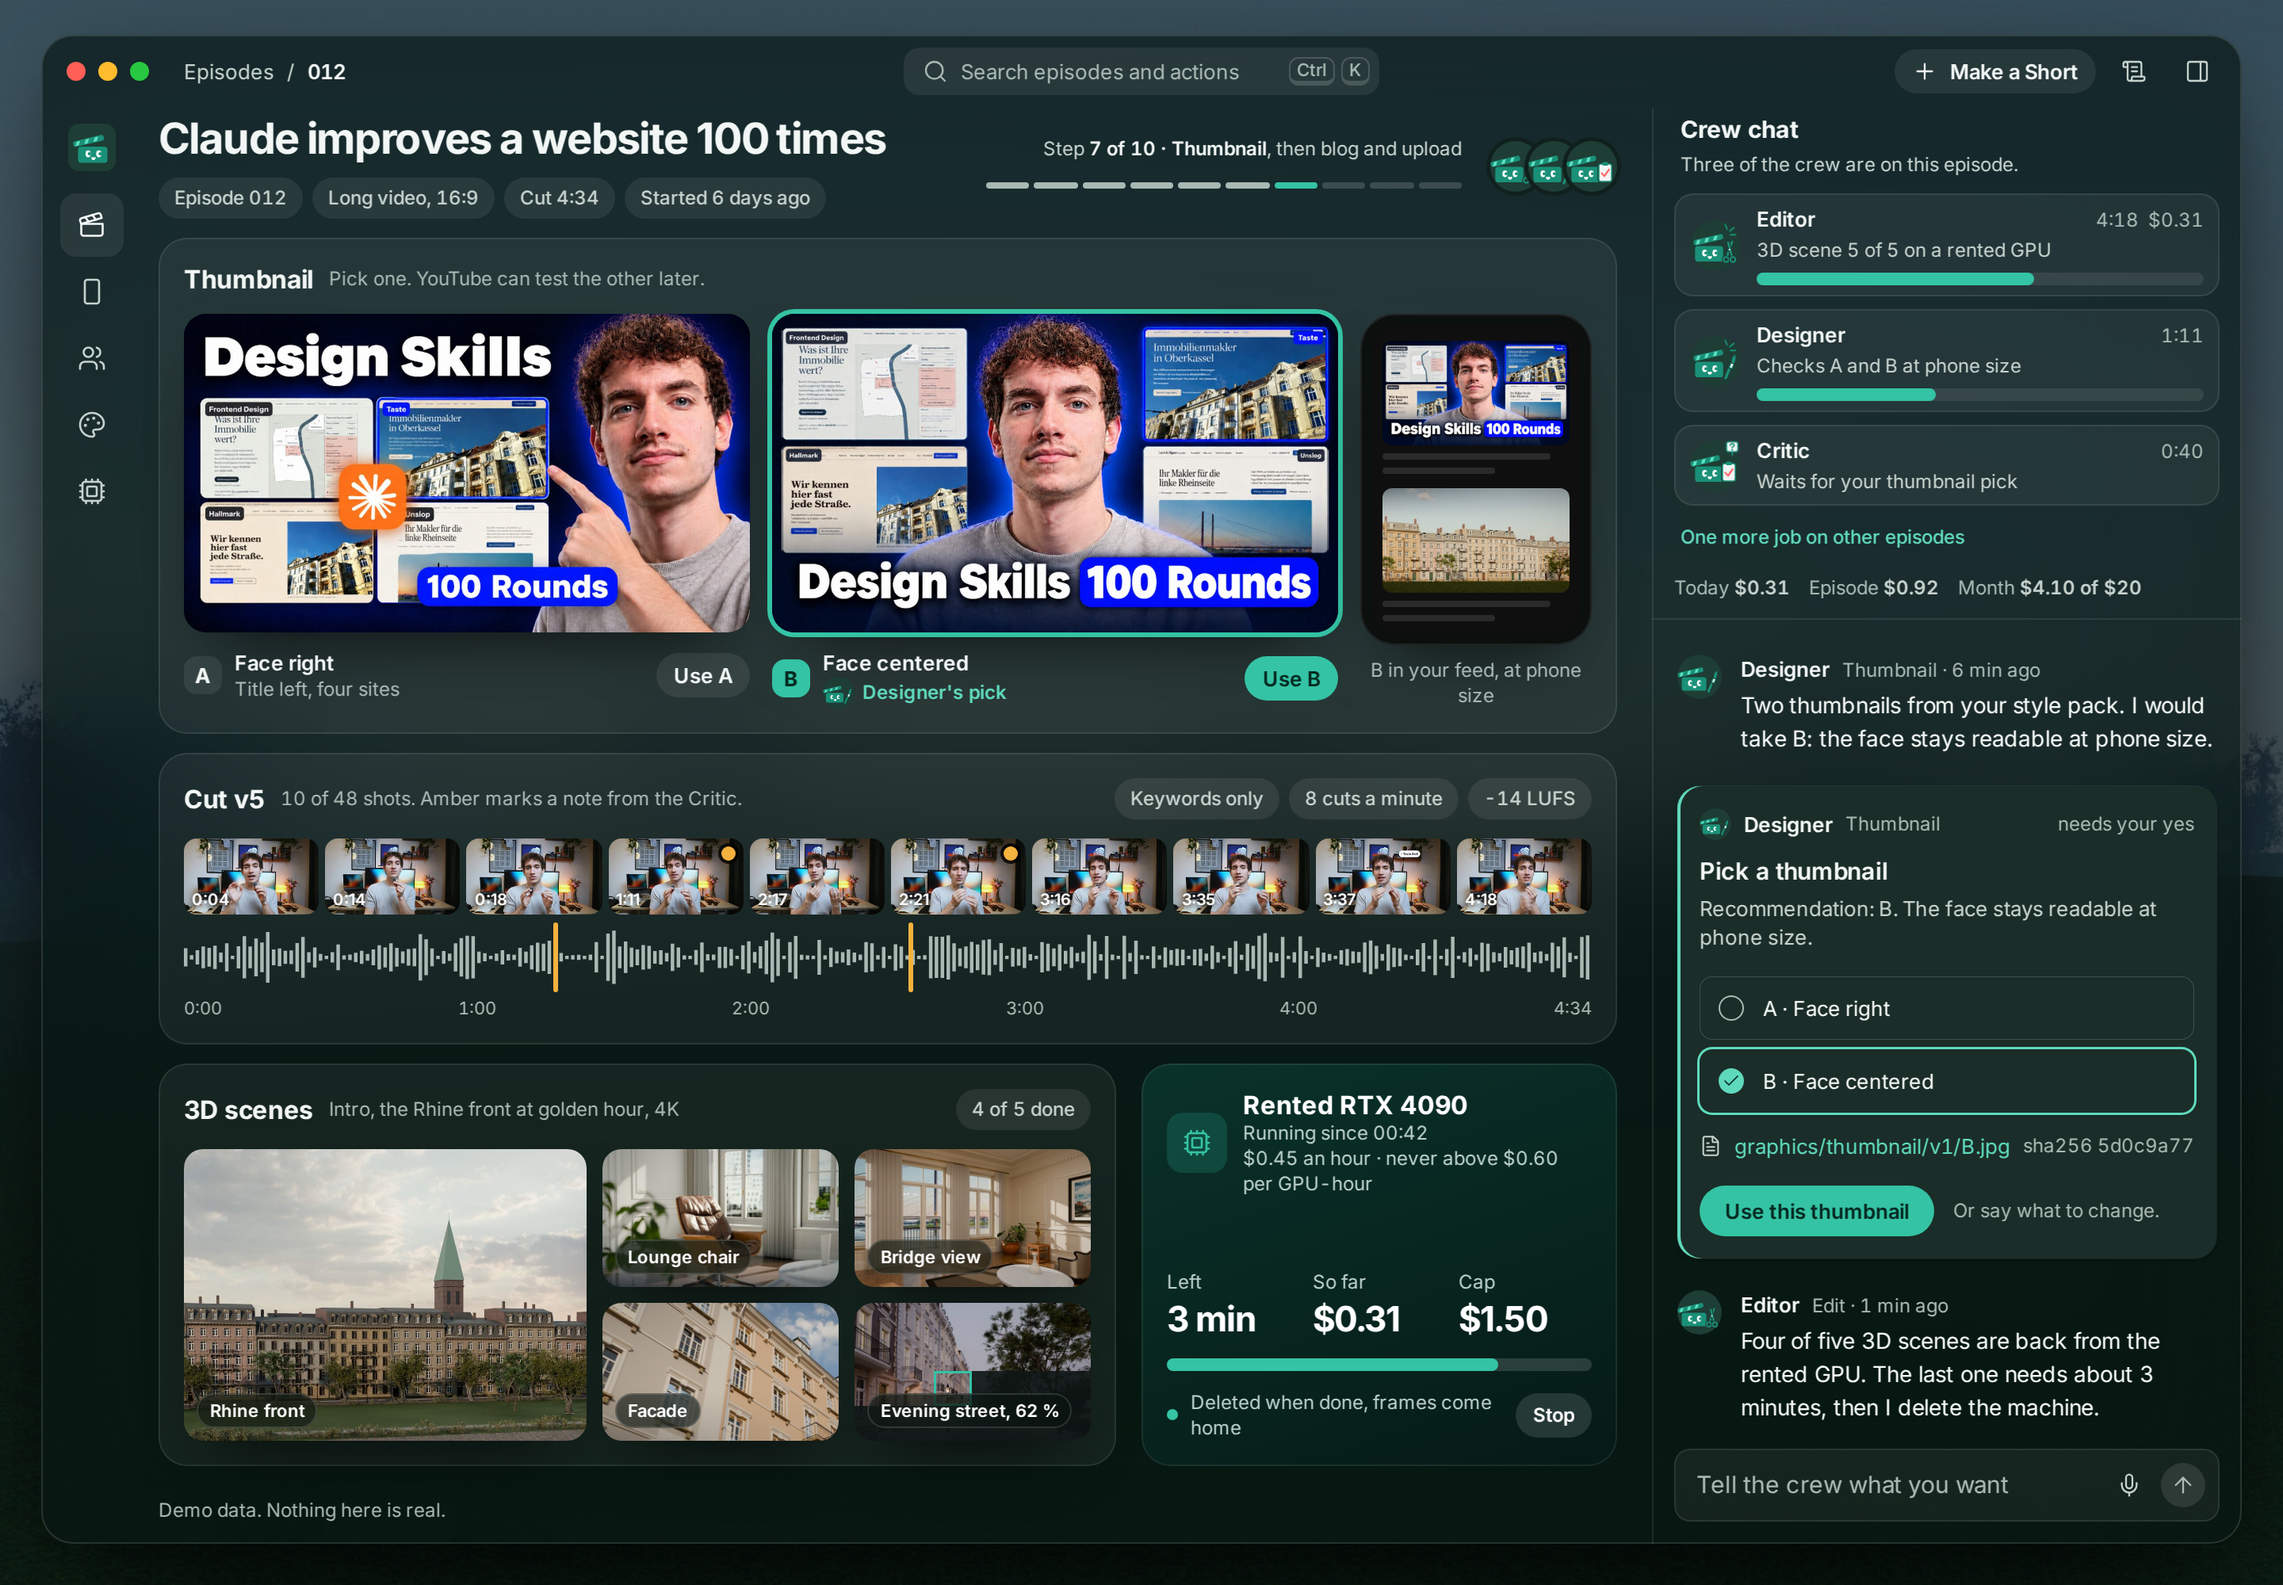
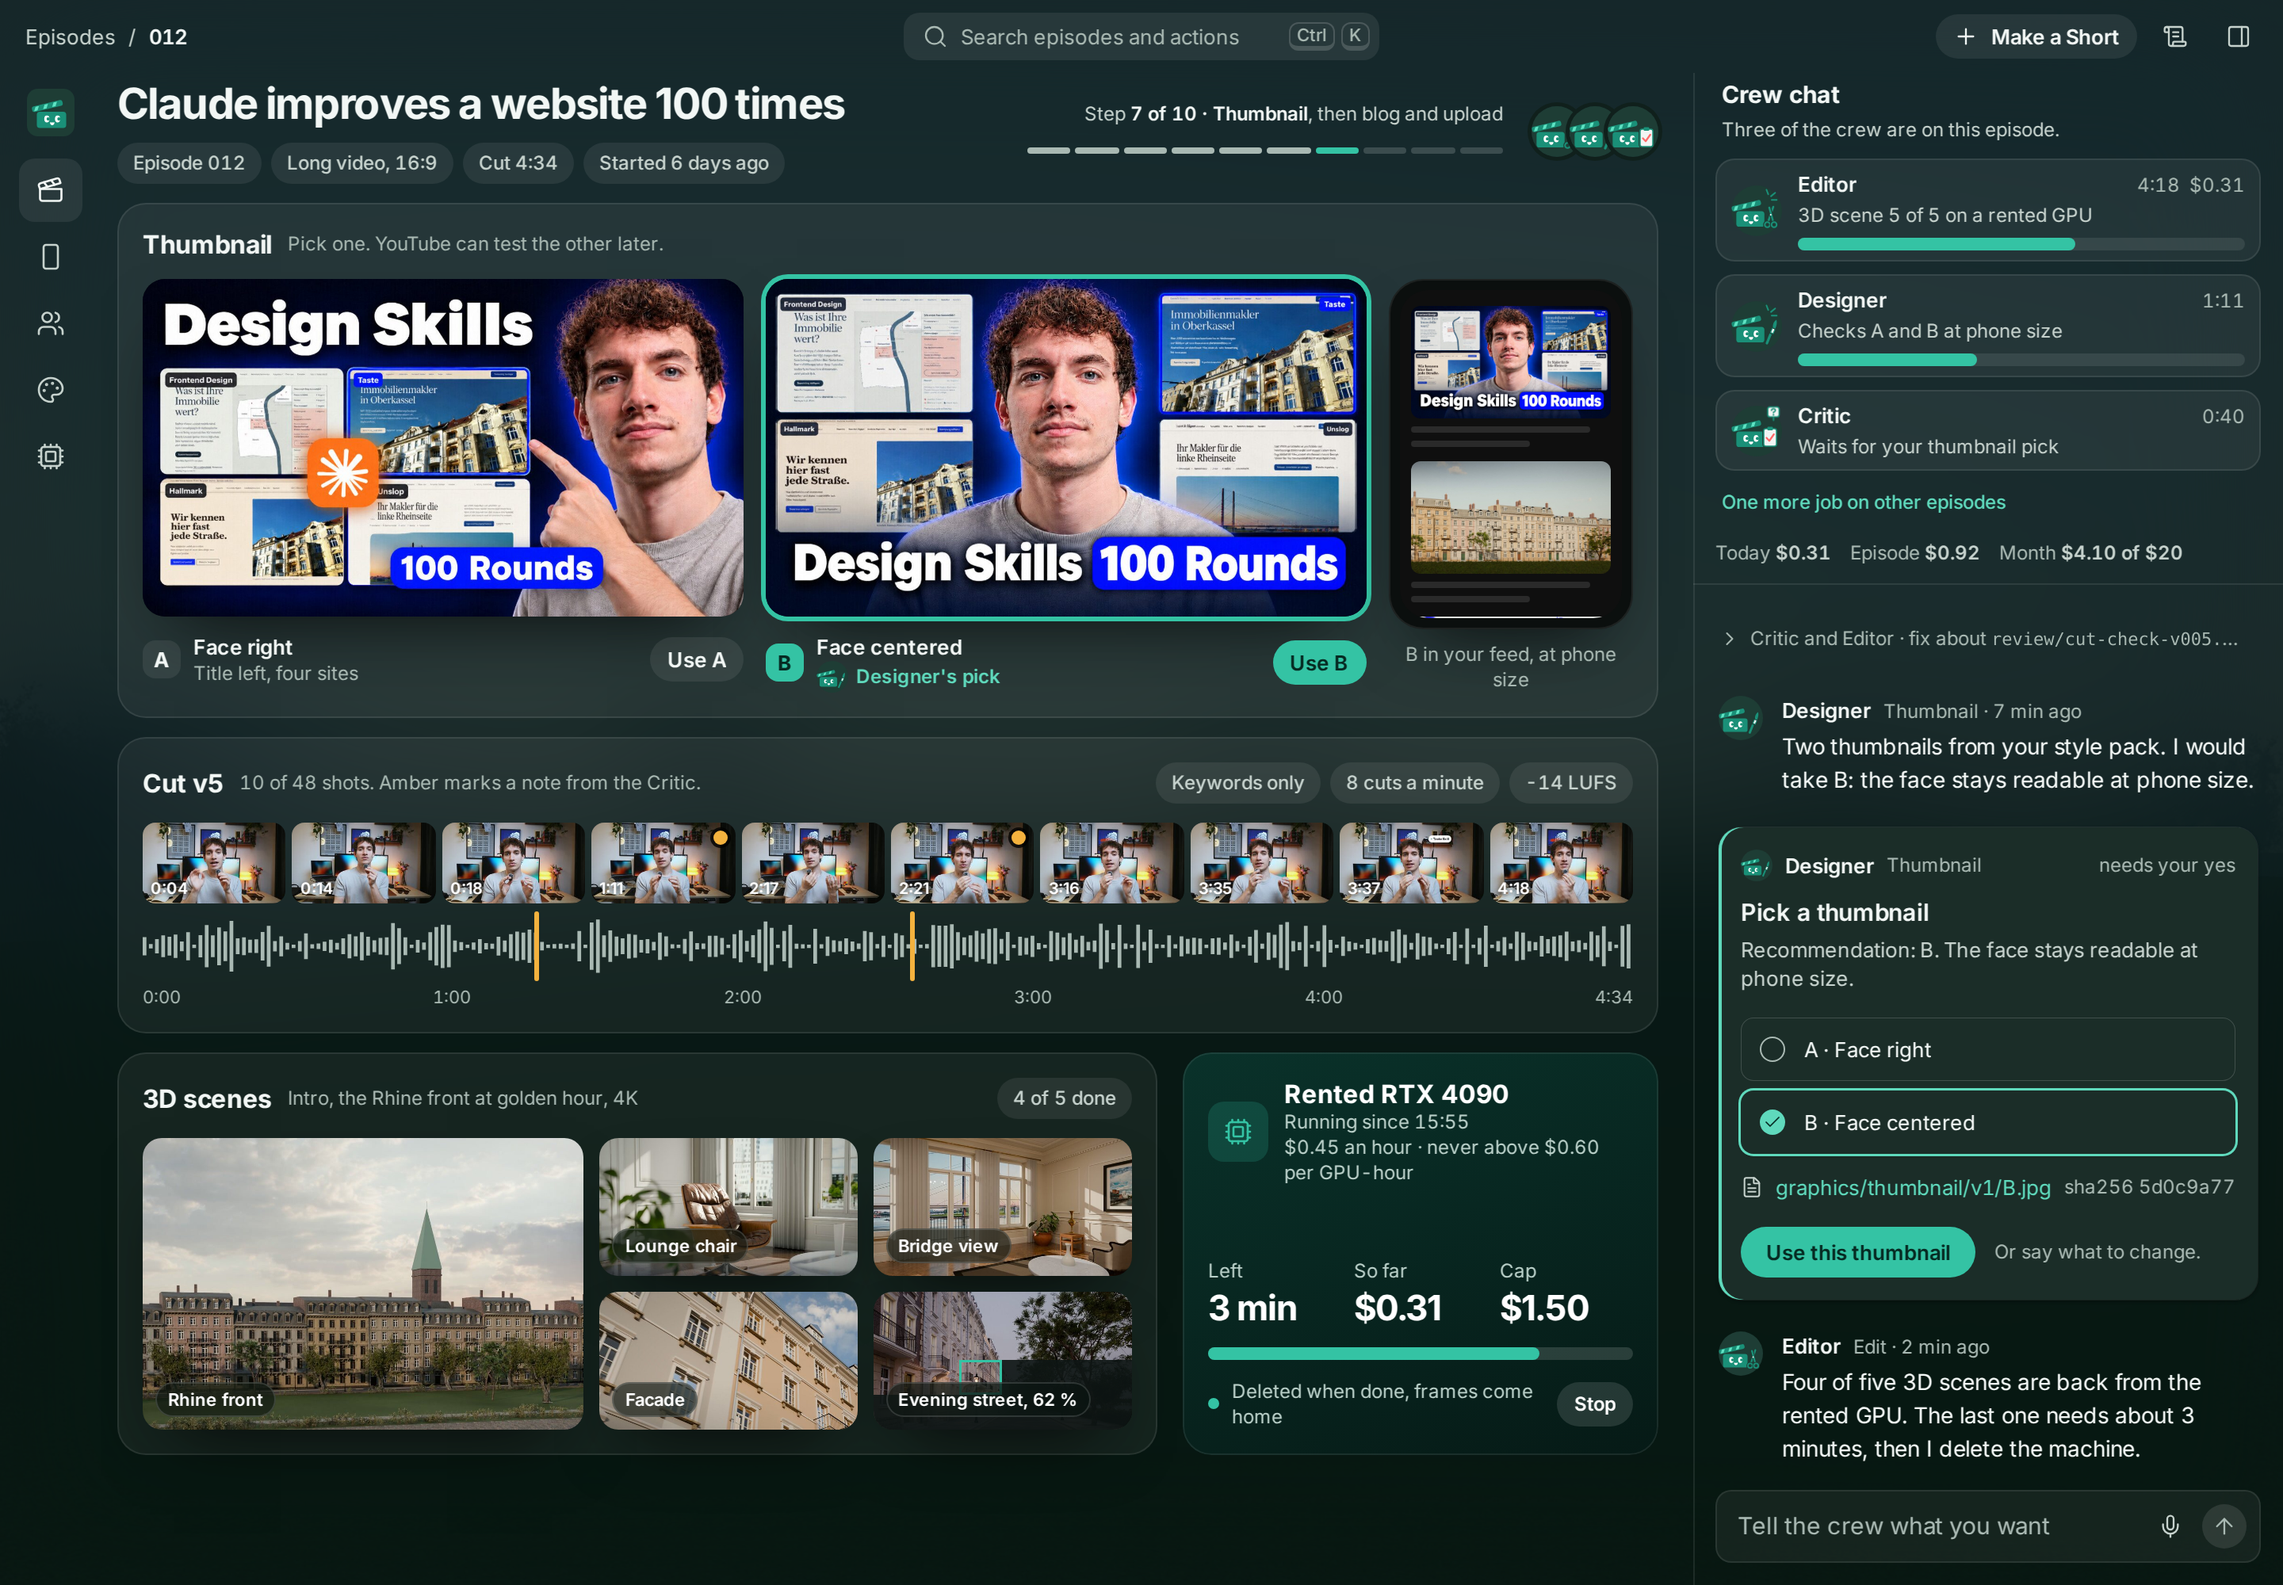
Pictures of the app as it is now, edge to edge: README, docs and landing page [no gate]
- docs/readme (episode 012 and the home, light and dark, and the animation) and docs/screenshot{,-dark}.png from the
  CI screens run 44122818211: the full-page app with the sample data of tests/web-sample; no fake window buttons, no
  boxed window.
- Landing page: the hero and "One window" pictures and the phone crops rendered from the same images; the screenshot
  stands on its own with a fine edge and a soft shadow, no window drawn around it.

Claude-Session: https://claude.ai/code/session_0155cQo7JNko2nMx9UFSJV3g

diff --git a/site/index.html b/site/index.html
@@ -113,7 +113,7 @@
   <section class="stage" id="app" aria-label="The Crewcut app">
     <div class="wrap">
       <div class="stage__frame">
-        <picture><source media="(max-width: 760px)" srcset="media/app/episode-chat-phone.webp" width="720" height="1548"><img class="stage__shot" src="media/app/stage-dark-1800.webp" srcset="media/app/stage-dark-1200.webp 1200w, media/app/stage-dark-1800.webp 1800w, media/app/stage-dark-2400.webp 2400w" sizes="(min-width: 1360px) 1200px, calc(100vw - 32px)" alt="An episode in Crewcut: thumbnail A, B and C to pick from, the cut as a film strip with the Critic's notes, the 3D scenes and the rented GPU, and the crew chat on the right" width="2880" height="2000" fetchpriority="high"></picture>
+        <picture><source media="(max-width: 760px)" srcset="media/app/episode-chat-phone.webp" width="720" height="1548"><img class="stage__shot" src="media/app/stage-dark-1800.webp" srcset="media/app/stage-dark-1200.webp 1200w, media/app/stage-dark-1800.webp 1800w, media/app/stage-dark-2400.webp 2400w" sizes="(min-width: 1360px) 1200px, calc(100vw - 32px)" alt="An episode in Crewcut, the app from edge to edge: thumbnails A and B to pick from, the cut as a film strip with the Critic's notes, the 3D scenes and the rented GPU, and the crew chat on the right" width="2880" height="2000" fetchpriority="high"></picture>
       </div>
     </div>
   </section>
@@ -150,7 +150,7 @@
           <source media="(max-width: 760px) and (prefers-color-scheme: dark)" srcset="media/app/episodes-dark-phone.webp" width="720" height="927">
           <source media="(max-width: 760px)" srcset="media/app/episodes-light-phone.webp" width="720" height="927">
           <source media="(prefers-color-scheme: dark)" srcset="media/app/episodes-dark-1200.webp 1200w, media/app/episodes-dark-1760.webp 1760w, media/app/episodes-dark-2400.webp 2400w" sizes="(min-width: 1360px) 1072px, calc(100vw - 64px)">
-          <img src="media/app/episodes-light-1760.webp" srcset="media/app/episodes-light-1200.webp 1200w, media/app/episodes-light-1760.webp 1760w, media/app/episodes-light-2400.webp 2400w" sizes="(min-width: 1360px) 1072px, calc(100vw - 64px)" alt="The Crewcut home: two episodes that need your yes, every video and Short with its thumbnail, and the crew at work with what it costs" width="1760" height="1206" loading="lazy" decoding="async">
+          <img src="media/app/episodes-light-1760.webp" srcset="media/app/episodes-light-1200.webp 1200w, media/app/episodes-light-1760.webp 1760w, media/app/episodes-light-2400.webp 2400w" sizes="(min-width: 1360px) 1072px, calc(100vw - 64px)" alt="The Crewcut home: two episodes that need your yes, every video and Short with its thumbnail, and the crew at work with what it costs" width="1760" height="1222" loading="lazy" decoding="async">
         </picture>
       </div>
     </div>

diff --git a/site/assets/site.css b/site/assets/site.css
@@ -182,11 +182,12 @@ section.film > .wrap { justify-content: center; }
 .stage { min-height: 0 !important; }
 .stage__frame { position: relative; }
 .stage__frame picture { display: contents; }
-.stage__shot { display: block; width: 100%; height: auto; border-radius: 18px; box-shadow: 0 50px 110px -40px rgba(0, 25, 20, 0.65), 0 18px 50px -20px rgba(0, 25, 20, 0.45); }
+/* The app as it is: a full-bleed screenshot, no window drawn around it; a fine edge and a soft shadow lift it. */
+.stage__shot { display: block; width: 100%; height: auto; border-radius: 12px; box-shadow: 0 0 0 1px rgba(0, 25, 20, 0.12), 0 32px 80px -40px rgba(0, 25, 20, 0.5); }
 /* ---------------------------------------------------------------- one window: the app on the misty morning */
 .scene { display: flex; justify-content: center; align-items: flex-start; padding: 48px 64px 56px; border-radius: 44px; overflow: hidden; background: #CFE3DA var(--scene) center 70% / cover no-repeat; }
 .scene picture { display: contents; }
-.scene img { width: 100%; height: auto; object-fit: cover; object-position: 50% 0; border-radius: 14px; box-shadow: 0 30px 80px -24px rgba(0, 30, 24, 0.5); }
+.scene img { width: 100%; height: auto; object-fit: cover; object-position: 50% 0; border-radius: 12px; box-shadow: 0 0 0 1px rgba(0, 30, 24, 0.12), 0 24px 64px -32px rgba(0, 30, 24, 0.45); }
 
 /* ---------------------------------------------------------------- the dark media grid */
 .band { background: var(--dark-band); color: #EEF5F2; }
@@ -311,7 +312,7 @@ footer.closing > .wrap { justify-content: space-between; gap: 32px; }
   .hero__facts { line-height: 38px; }
   .stage { padding-top: 56px; }
   .stage__frame { flex: none; display: block; }
-  .stage__shot { width: 100%; height: auto; max-height: none; border-radius: 16px; -webkit-mask-image: linear-gradient(180deg, #000 88%, transparent); mask-image: linear-gradient(180deg, #000 88%, transparent); }
+  .stage__shot { width: 100%; height: auto; max-height: none; border-radius: 10px; -webkit-mask-image: linear-gradient(180deg, #000 88%, transparent); mask-image: linear-gradient(180deg, #000 88%, transparent); }
   .lead, .sh .lead { font-size: 16.5px; }
   .sh { margin-bottom: 26px; }
   .chips .chip { height: 30px; font-size: 13px; padding: 0 11px; }

diff --git a/site/media/CREDITS.md b/site/media/CREDITS.md
@@ -26,9 +26,10 @@ and a 540 x 960 crop for phones, posters in WebP and JPEG.
 
 **Frames** (`frames/`): 3D scenes the studio rendered for a commercial, cut so that no words show (in the GPU card).
 
-**The app** (`app/`, `crew/`): screenshots of the Crewcut web UI in demo mode, rendered in CI. The hero window is
-`docs/readme/crewcut-dark.png` whole (commit 5addce3, 2880 x 2000); the home, the phone crops and seven crew tiles
-are cut from the README images of the same commit; the writer and brand tiles come from screens run 43982257994.
+**The app** (`app/`, `crew/`): screenshots of the Crewcut web UI, edge to edge as the app looks now, with the sample
+data of `tests/web-sample` (the author's own videos), rendered in CI (screens run 44122818211, commit 5cdbd17). The hero
+is `docs/readme/crewcut-dark.png` whole (2880 x 2000), the home the README's `crewcut-episodes-{light,dark}.png` whole,
+the phone crops are cut from the same images. The crew tiles are parts of the UI from screens run 43982257994.
 
 ## Film
 
